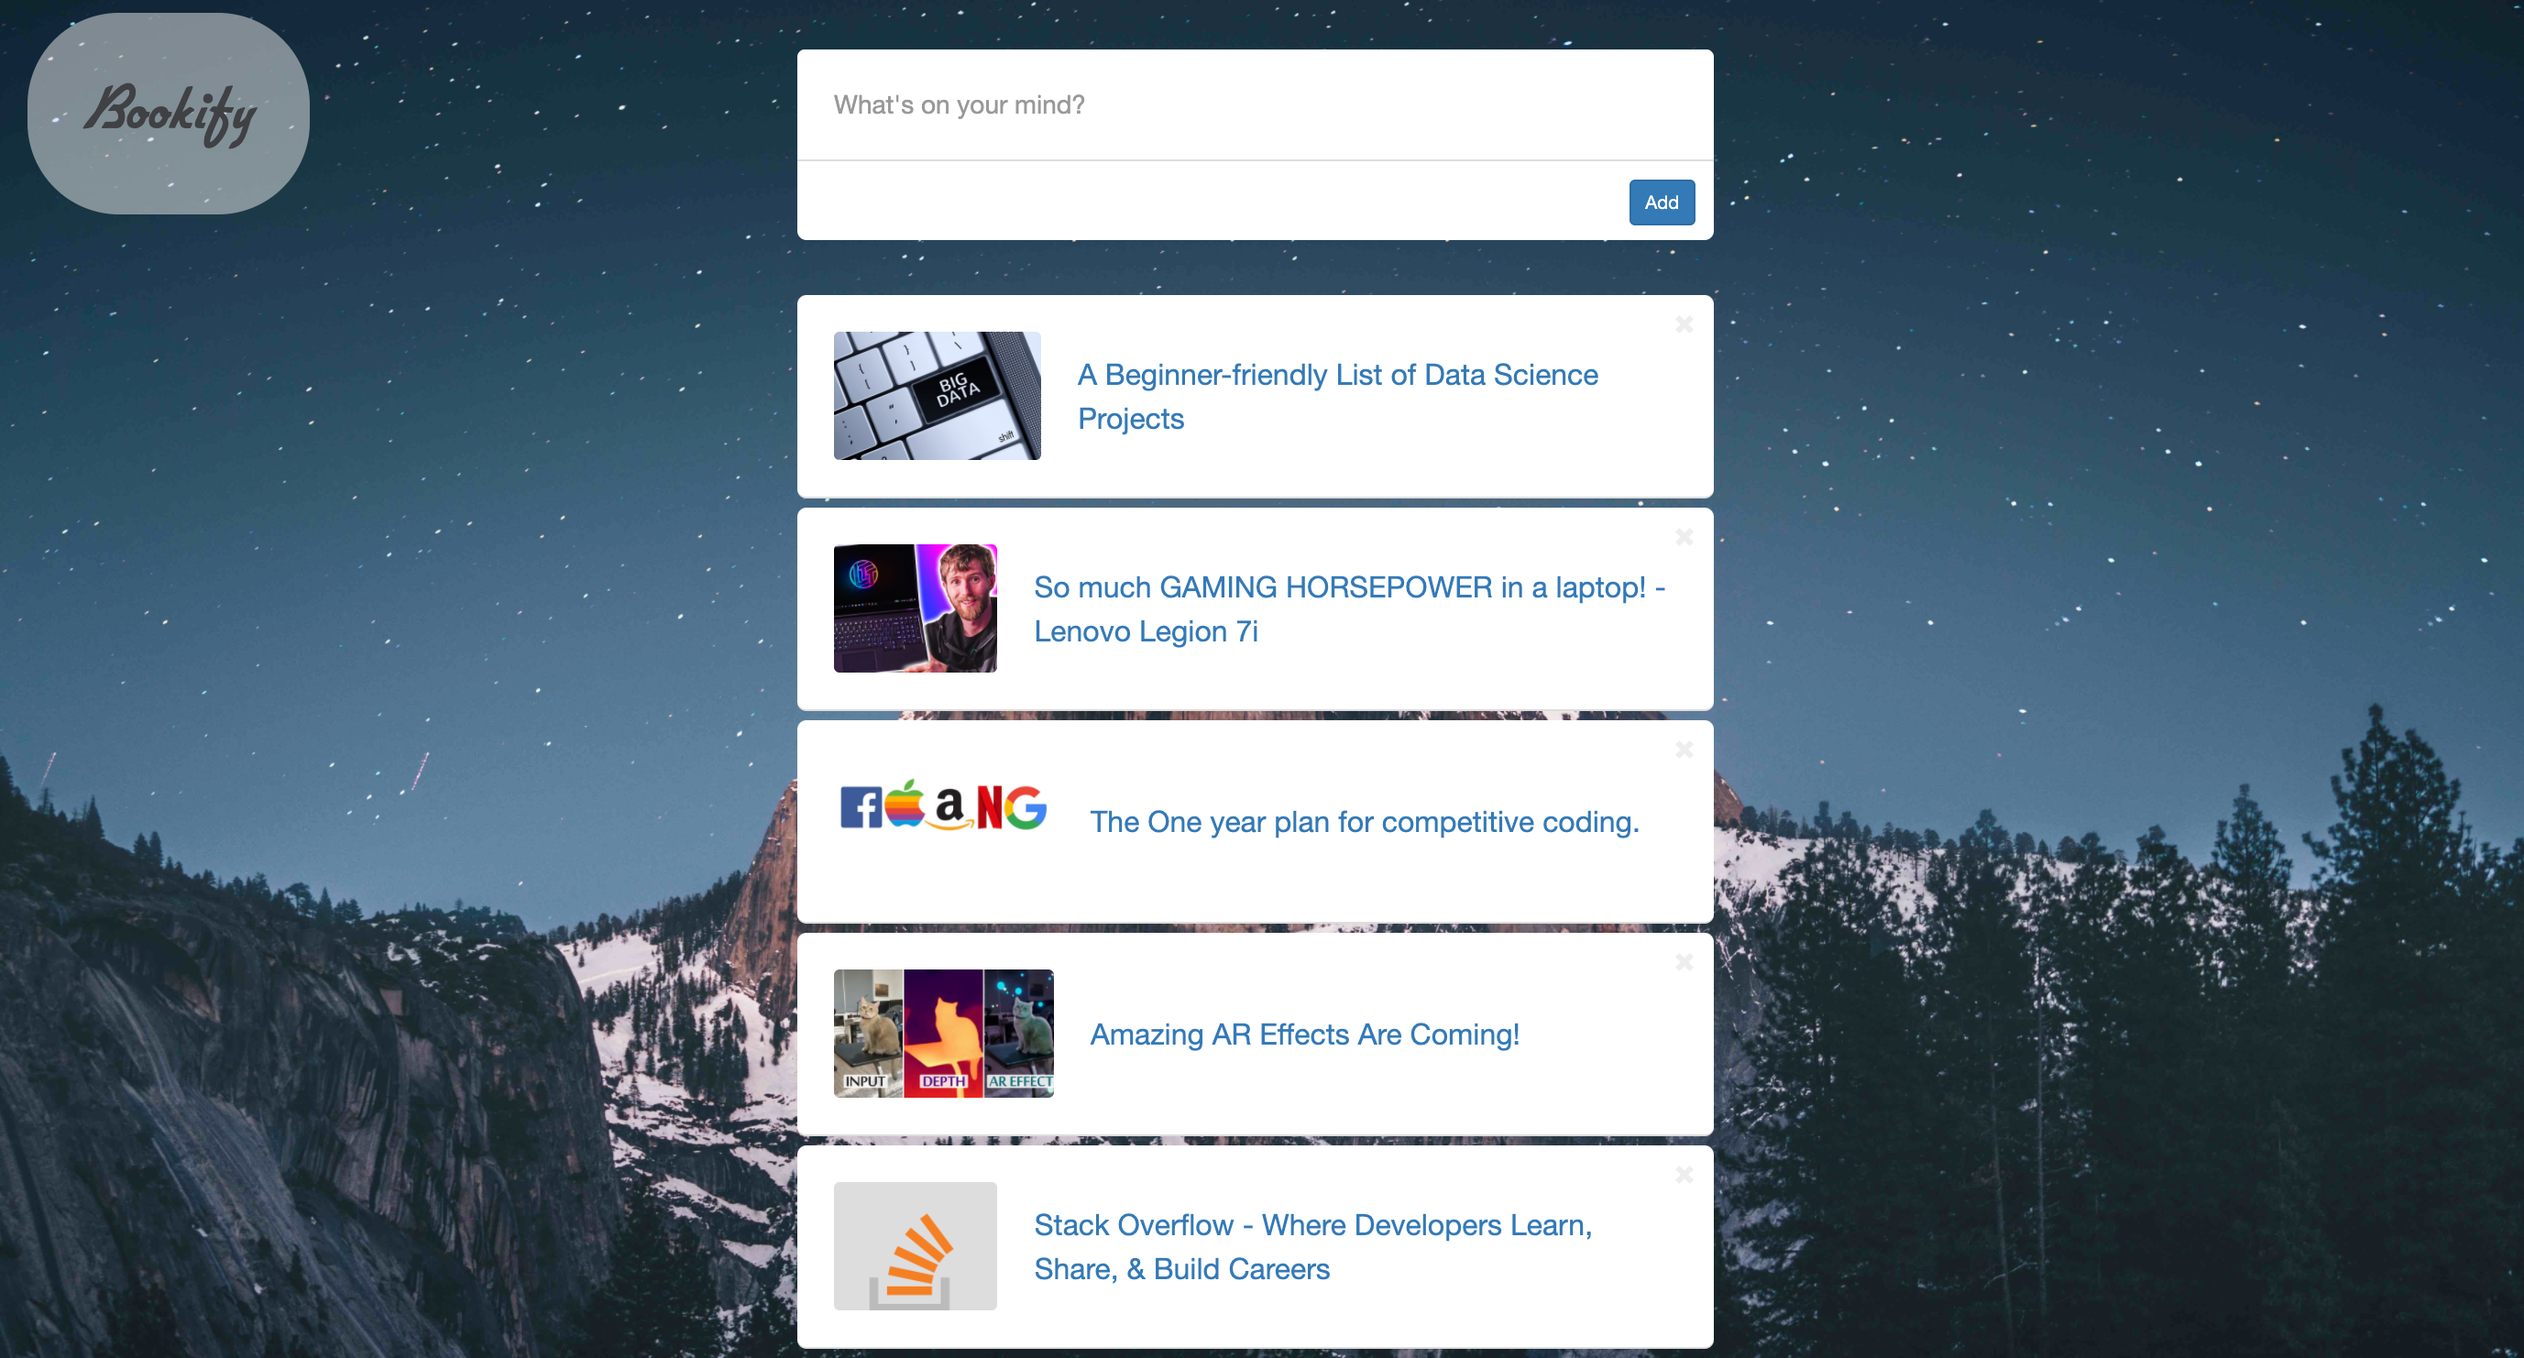
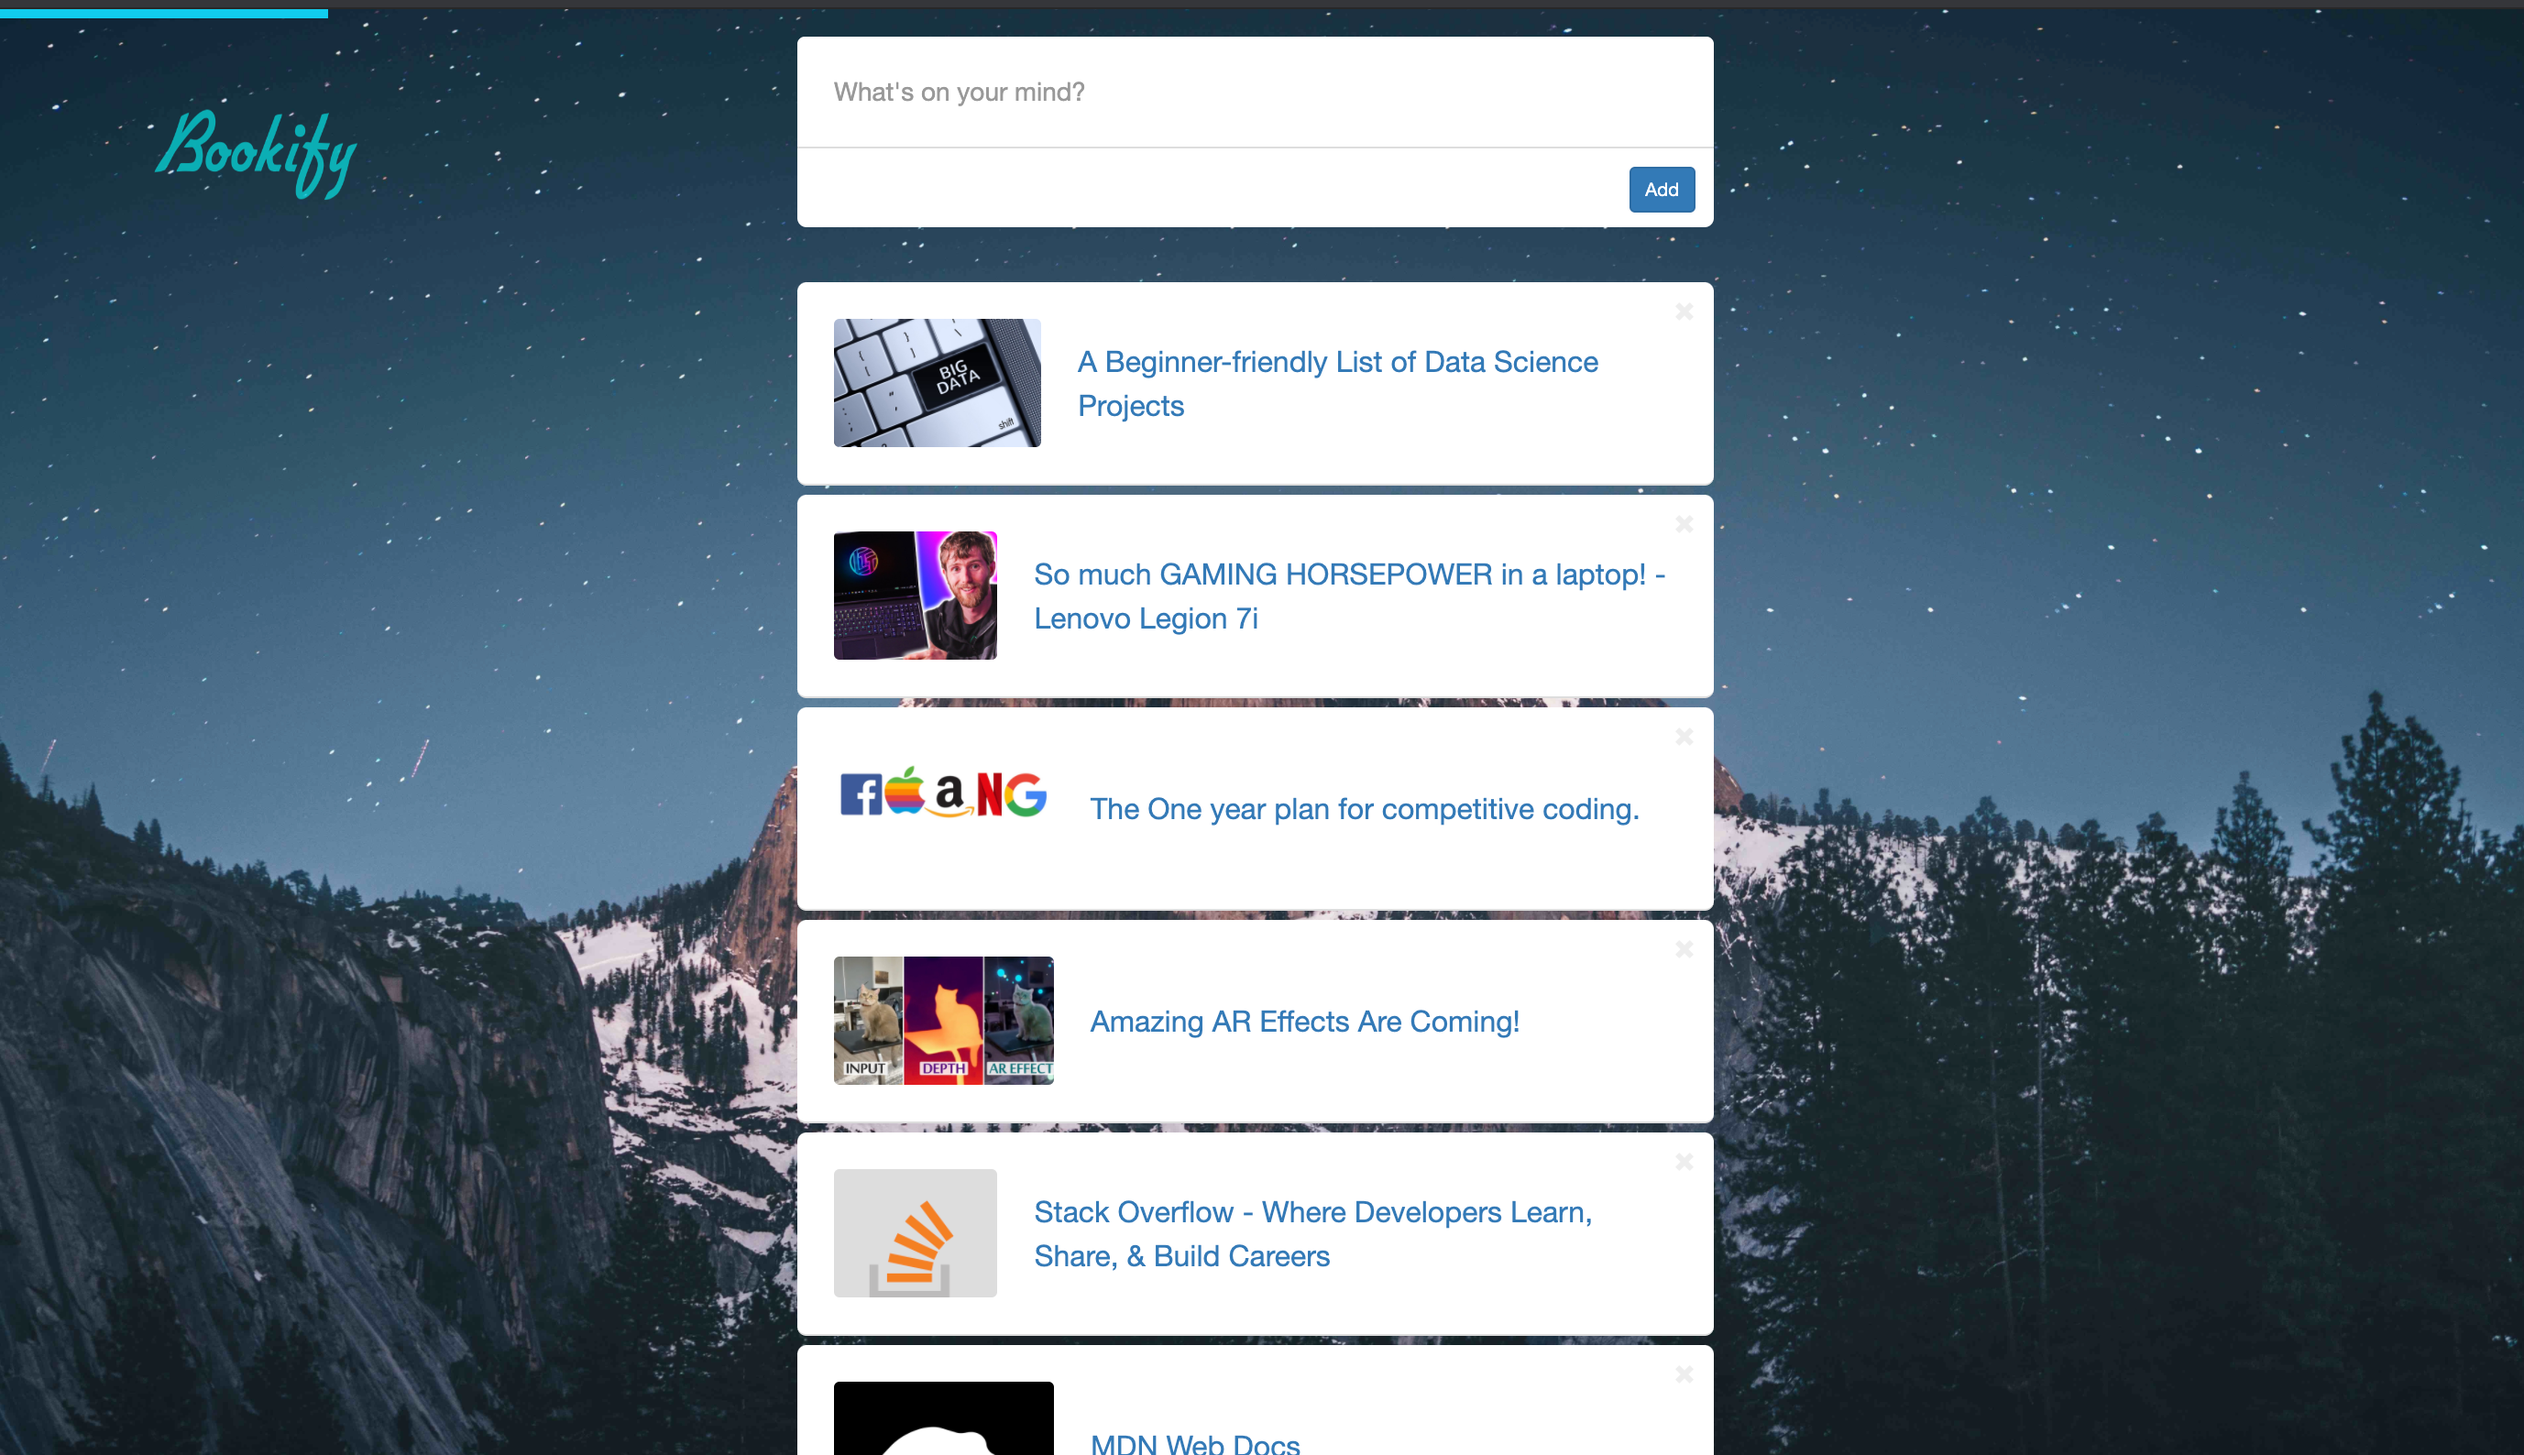
added code

Changed region(s): [[0.0, 0.0931, 1.0, 1.0], [0.0, 0.0, 1.0, 0.1552], [0.968, 0.9933, 0.9993, 1.0]]

diff --git a/index.html b/index.html
@@ -12,19 +12,13 @@
             padding: 30px;
         }
 
-        /* .intro {
-
+        img {
             position: fixed;
-            font-family: flottflott;
-            color: #404144;
-            font-size: 35px;
-            top: 10px;
-            left: 50px;
             display: inline;
-            border-radius: 50px;
-            background-color: rgb(238, 238, 238, 0.5);
+            left: 100px;
+            opacity: 0.6;
 
-        } */
+        }
 
         body {
             background-image: url("assets/bg.jpg");
@@ -167,15 +161,25 @@
         .bookmark:hover .glyphicon-remove {
             color: #AAA;
         }
+
+        /* for scroll bar */
+        .scroll-line {
+            z-index: 12;
+            position: fixed;
+            top: 0;
+            left: 0;
+            height: 5px;
+            background-color: #1CE;
+            transition: cubic-bezier(0.075, 0.82, 0.165, 1);
+
+        }
     </style>
 </head>
 
 <body>
+    <div class="scroll-line"></div>
     <div class="overlay"></div>
-    <!-- <div class="jumbotron intro">
-        <span class="introText">Bookify</span>
-    </div> -->
-
+    <img height="100" width="150" src="assets/bookifyLogo.png" alt="Bookify">
     <div class="floater content">
         <form class="bookmark-form">
             <div class="floater-top">
@@ -196,6 +200,8 @@
         const body = document.body
         const input = document.querySelector("input[type=text]")
         const overlay = document.querySelector(".overlay")
+        // for scroll bar
+        const scrollLine = document.querySelector(".scroll-line")
 
 
 
@@ -216,11 +222,40 @@
 
         }
 
+        // define functions
+        // for scroll bar
+        function fillScrollLine() {
+            const windowHeight = window.innerHeight
+            const fullHeight = document.body.clientHeight
+            const scrollY = window.scrollY
+            const scrolled = (scrollY / (fullHeight - windowHeight)) * 100
+            scrollLine.style.width = scrolled + "%"
+            // console.count("Hello!")
+        }
+        // for scroll bar
+        function debounce(func, wait = 15, immediate) {
+            var timeout;
+            return function () {
+                var context = this, args = arguments;
+                var later = function () {
+                    timeout = null;
+                    if (!immediate) func.apply(context, args);
+                };
+                var callNow = immediate && !timeout;
+                clearTimeout(timeout);
+                timeout = setTimeout(later, wait);
+                if (callNow) func.apply(context, args);
+            };
+        }
+
 
         // add eventlisteners here
         input.addEventListener('focusin', showFloater) //focus is used because if we use click then if the user presses tab to select the input it won't work
         // input.addEventListener('focusout', showFloater)
         overlay.addEventListener("click", closeFloater)
+        // for scroll bar
+        window.addEventListener('scroll', debounce(fillScrollLine));
+
 
         //===========================
 

diff --git a/readme.md b/readme.md
@@ -2,7 +2,7 @@
 It is an application made using javascript, html5 and css to store you favourite bookmarks in one organised space.
 # Features: 
 - Add/Delete your bookmarks.
-- Scrolling progress bar coming soon
+- Scrolling progress bar.
 ![alt tag](https://github.com/Jappan07/Bookmarking-App/blob/master/assets/ss.png)
 
-# To run this app simply clone or download this repository and then open index.html using any web browser OR follow this link - ()
+# To run this app simply clone or download this repository and then open index.html using any web browser OR follow this link - (https://jappan07.github.io/Bookmarking-App/)
